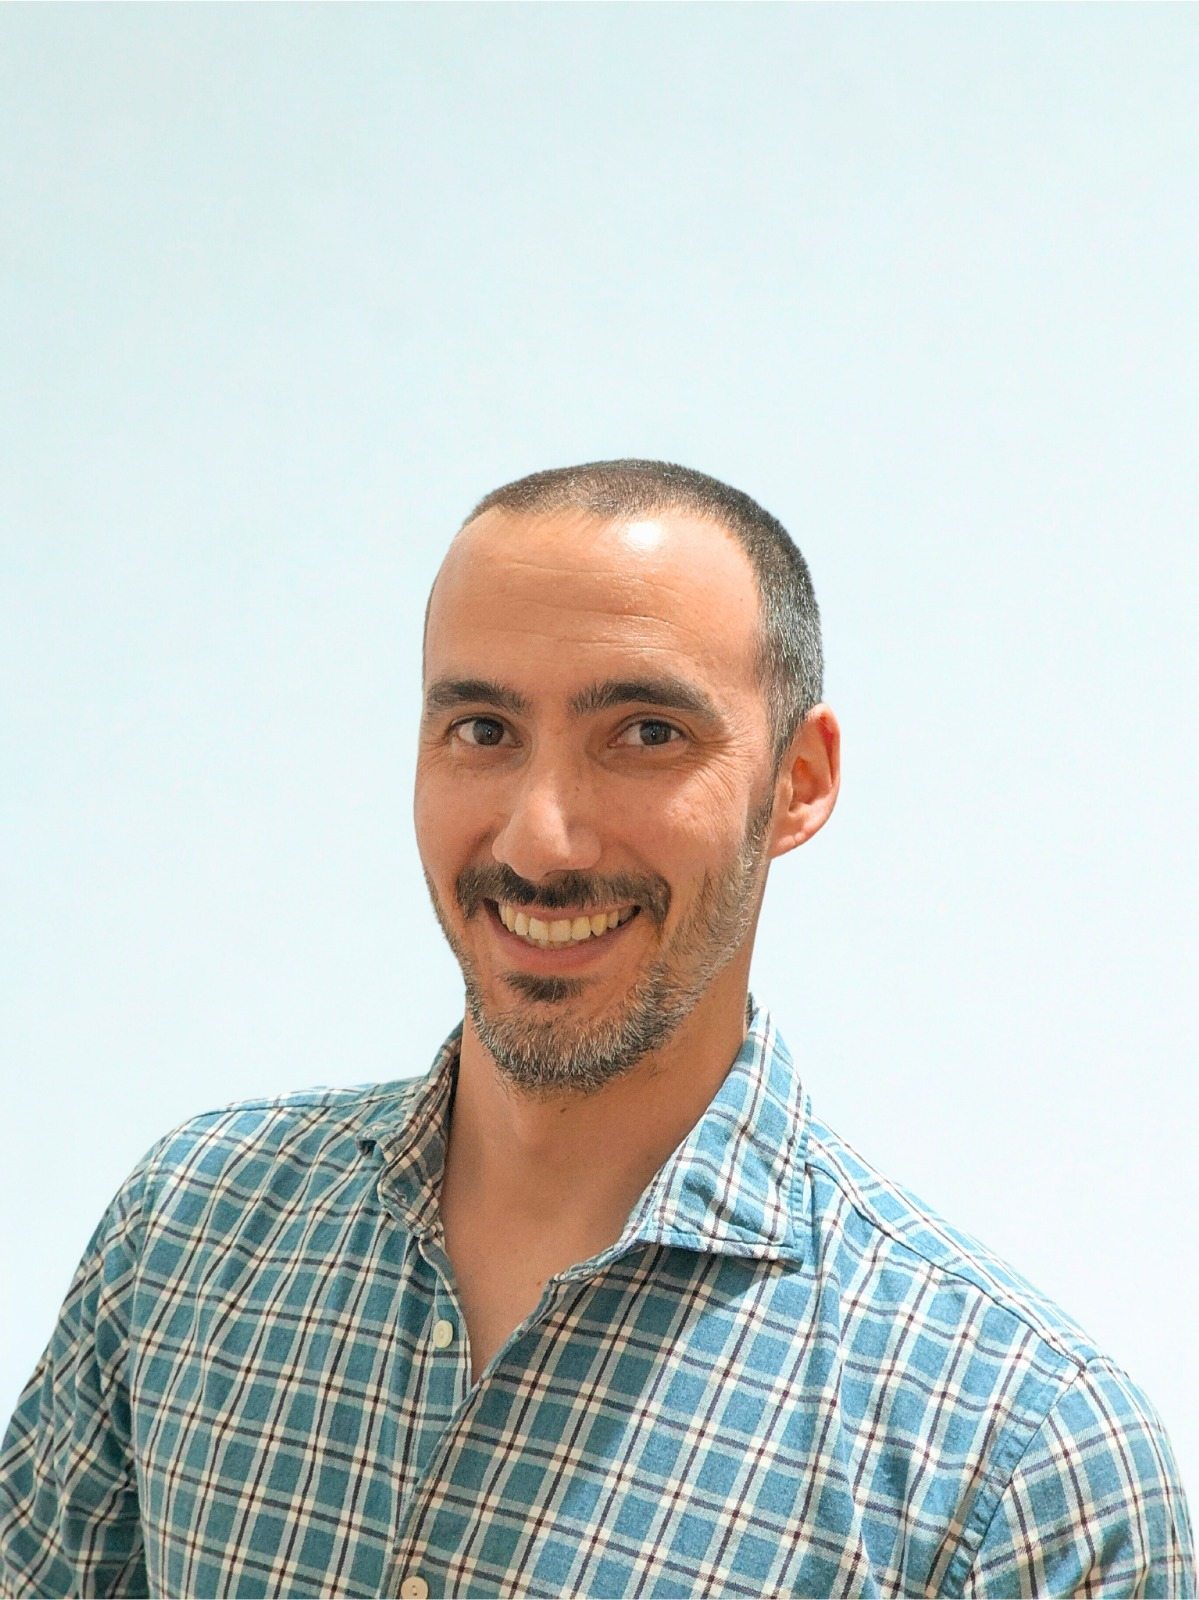
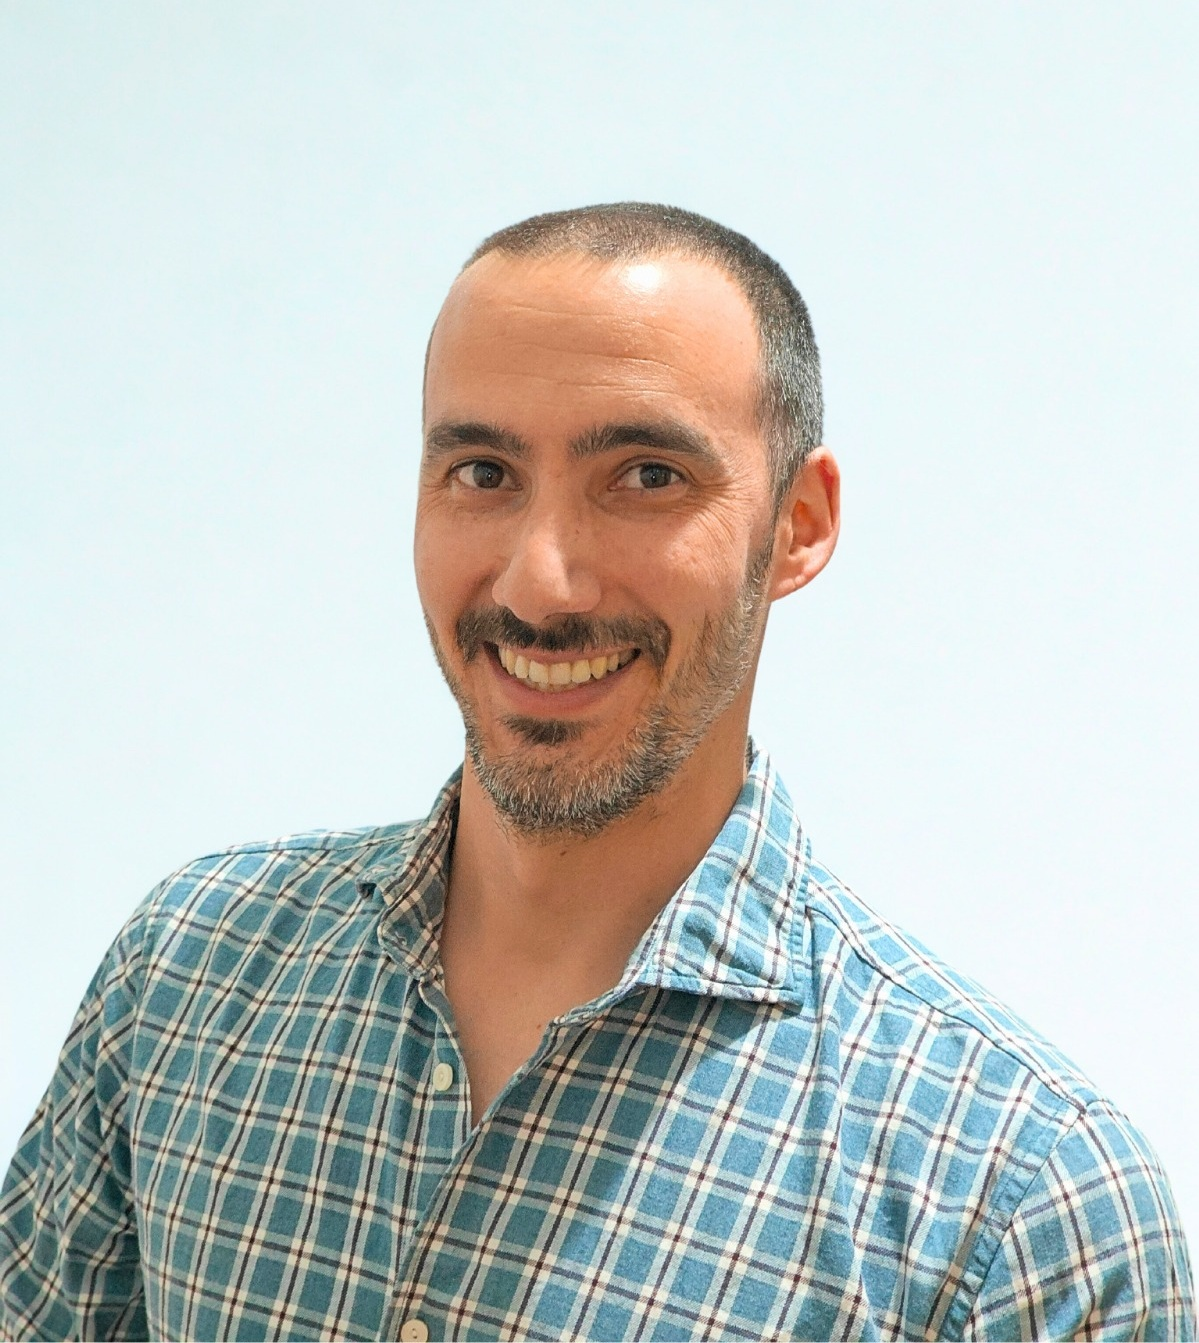
Tocadas la fichas de developers fotos y ajustes de tamaño

diff --git a/src/assets/Componentes/About.css b/src/assets/Componentes/About.css
@@ -84,13 +84,14 @@ height: 94.4%;
 /* === CAROUSEL === */
 .developer-carousel {
   display: flex;
-  align-items: center;
+  align-items: flex-start;
   gap: 1rem;
   padding: 1.5rem;
   position: relative;
 }
 
 .nav-arrow {
+  align-self: center;
   background: rgba(255, 255, 255, 0.1);
   backdrop-filter: blur(10px);
   border: 1px solid rgba(255, 255, 255, 0.2);
@@ -197,6 +198,7 @@ height: 94.4%;
     0 8px 30px rgba(139, 92, 246, 0.4),
     0 0 0 4px rgba(255, 255, 255, 0.1);
   transition: all 0.3s ease;
+  overflow: hidden;
 }
 
 .developer-image img:hover {
@@ -204,35 +206,6 @@ height: 94.4%;
   box-shadow: 
     0 12px 40px rgba(139, 92, 246, 0.6),
     0 0 0 4px rgba(255, 255, 255, 0.2);
-}
-
-/* Ajustes específicos para imágenes */
-.developer-image img[src*="Ricardo"],
-.developer-image img[src*="Eva"],
-.developer-image img[src*="Pedro"],
-.developer-image img[src*="Sergi"],
-.developer-image img[src*="Miguel"] { 
-  object-position: center 15%; 
-}
-
-.developer-image img[src*="Manu"] { 
-  object-position: center 75%; 
-}
-
-.developer-image img[src*="Sergi"] { 
-  object-position: center 10%; 
-}
-
-.developer-image img[src*="Carlos"] { 
-  object-position: center 20%; 
-}
-
-.developer-image img[src*="Jesus"] { 
-  object-position: center 30%; 
-}
-
-.developer-image img[src*="unsplash"] { 
-  object-position: center 25%; 
 }
 
 /* === DEVELOPER INFO === */

diff --git a/src/assets/Componentes/About.jsx b/src/assets/Componentes/About.jsx
@@ -85,7 +85,7 @@ const About = () => {
     }
   ], []);
 
-  const [currentDeveloper, setCurrentDeveloper] = useState(0);
+  const [currentDeveloper, setCurrentDeveloper] = useState(() => Math.floor(Math.random() * 8));
   
   const nextDeveloper = () => {
     setCurrentDeveloper((prev) => (prev + 1) % developers.length);
